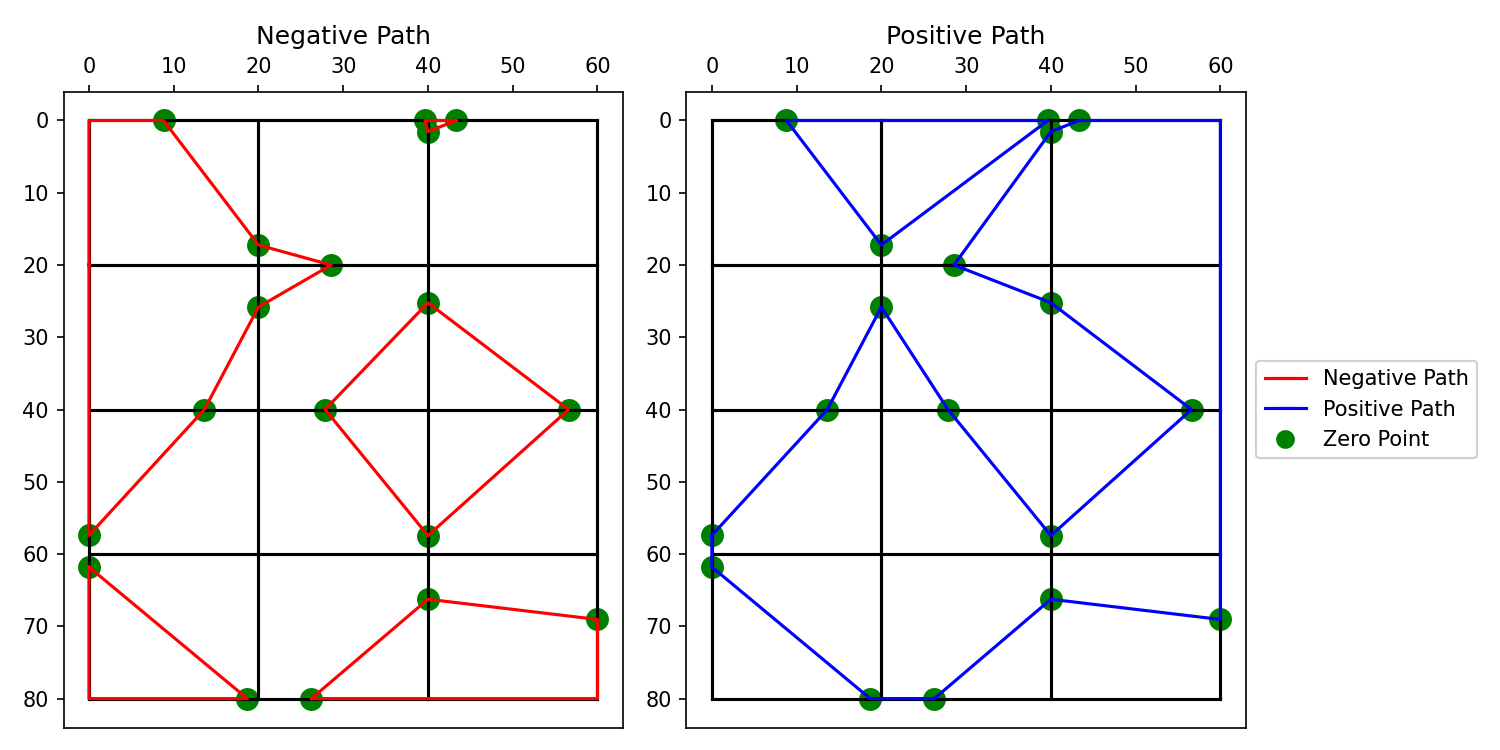
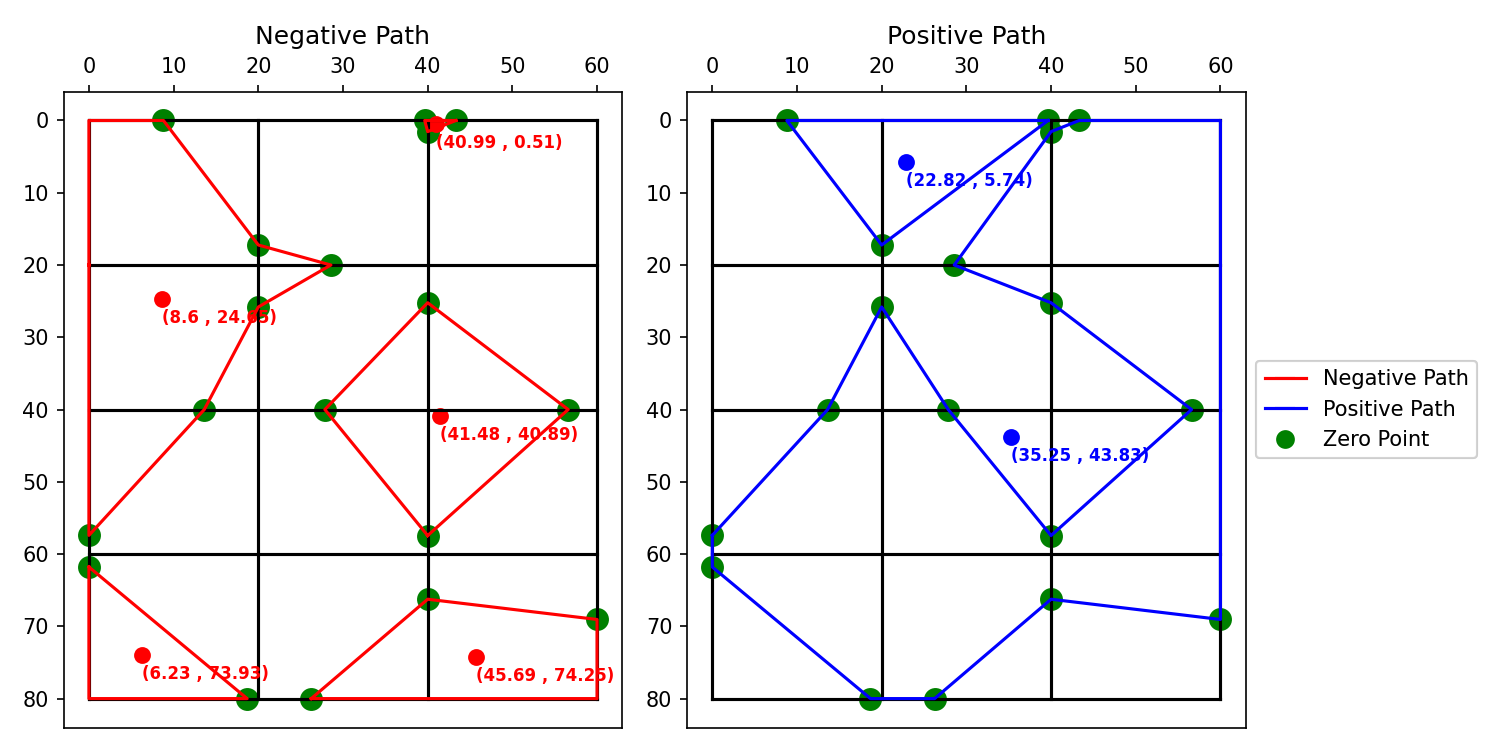
🤤

diff --git a/visualizeData.py b/visualizeData.py
@@ -11,7 +11,7 @@ def showExcavationAndFillingZone(
 
     fig, ax = plt.subplots()
 
-    # fig.set_size_inches(8, 8)
+    fig.set_size_inches(10, 6)
 
     # 画网格线
     gridNet.drawGridNetLines(gridNet.verticalPoints, gridNet.horizontalPoints, ax)
@@ -81,17 +81,17 @@ def showExcavationAndFillingZone(
 
     # 填充挖方区域和填方区域
 
-    for path in gridNet.gridNetNegativeZone:
+    for index, path in enumerate(gridNet.gridNetNegativeZone):
 
         xs, ys = zip(*[(p.x, p.y) for p in path])
 
-        ax.fill(xs, ys, color="red", alpha=0.5, label="negative zone")
+        ax.fill(xs, ys, color="red", alpha=0.5, label=f"negative zone {index+1}")
 
-    for path in gridNet.gridNetPositiveZone:
+    for index, path in enumerate(gridNet.gridNetPositiveZone):
 
         xs, ys = zip(*[(p.x, p.y) for p in path])
 
-        ax.fill(xs, ys, color="blue", alpha=0.5, label="positive zone")
+        ax.fill(xs, ys, color="blue", alpha=0.5, label=f"positive zone {index+1}")
 
     legend_elements = [
         Line2D(
@@ -167,9 +167,33 @@ def showNegativeAndPositivePath(gridNet: GridNet, savePath: str = None, dpi: int
         s=100,
     )
 
+    gridNetNegativeZone_c_v, gridNetPositiveZone_c_v = (
+        gridNet.calculateNegtiveZonesAndPositiveZones_geoCenterpoint_and_v()
+    )
+
     for path in gridNet.gridNetNegativeZone:
 
         # print(path)
+        geoCenterPoint = gridNetNegativeZone_c_v[path][0]
+        v = gridNetNegativeZone_c_v[path][1]
+
+        ax12[0].scatter(geoCenterPoint.x, geoCenterPoint.y, color="red", s=50)
+        # ax12[0].text(
+        #     geoCenterPoint.x,
+        #     geoCenterPoint.y + GridNet().edge_length / 3,
+        #     f"v={round(v,2)}",
+        #     color="red",
+        #     weight="bold",
+        #     size=8,
+        # )
+        ax12[0].text(
+            geoCenterPoint.x,
+            geoCenterPoint.y + GridNet().edge_length / 6,
+            f"({round(geoCenterPoint.x,2)} , {round(geoCenterPoint.y,2)})",
+            color="red",
+            weight="bold",
+            size=8,
+        )
 
         xs, ys = zip(*[(p.x, p.y) for p in path])
 
@@ -181,6 +205,26 @@ def showNegativeAndPositivePath(gridNet: GridNet, savePath: str = None, dpi: int
     for path in gridNet.gridNetPositiveZone:
 
         # print(path)
+        geoCenterPoint = gridNetPositiveZone_c_v[path][0]
+        v = gridNetPositiveZone_c_v[path][1]
+
+        ax12[1].scatter(geoCenterPoint.x, geoCenterPoint.y, color="blue", s=50)
+        # ax12[1].text(
+        #     geoCenterPoint.x,
+        #     geoCenterPoint.y + GridNet().edge_length / 3,
+        #     f"v={round(v,2)}",
+        #     color="blue",
+        #     weight="bold",
+        #     size=8,
+        # )
+        ax12[1].text(
+            geoCenterPoint.x,
+            geoCenterPoint.y + GridNet().edge_length / 6,
+            f"({round(geoCenterPoint.x,2)} , {round(geoCenterPoint.y,2)})",
+            color="blue",
+            weight="bold",
+            size=8,
+        )
 
         xs, ys = zip(*[(p.x, p.y) for p in path])
 

diff --git a/gridClass.py b/gridClass.py
@@ -1,12 +1,10 @@
 import numpy as np
-import matplotlib.pyplot as plt
 from rich import print
 from typing import Iterable, List, Union
 import math
 from shapely.geometry import Point, Polygon, MultiPolygon
-from shapely.ops import unary_union
-import matplotlib.gridspec as gridspec
 from dataProcess import lenth_net
+from scipy.spatial import ConvexHull
 
 
 def is_point_on_edge(point: tuple[float, float], polygon: Polygon):
@@ -388,11 +386,23 @@ class GridNet:
 
             average_value = sum(valuelist) / len(set_coords)  # 平均高程
 
+            points3d = [
+                (p[0], p[1], self.get_value_by_coordinate(p)) for p in set_coords
+            ]
+
             # print(valuelist)
 
             # print(set_coords)
 
-            total_area += poly.area * average_value
+            # try:
+            #     hull = ConvexHull(points3d)
+            #     v = hull.volume
+            # except:
+            #     v = poly.area * average_value
+
+            v = poly.area * average_value
+
+            total_area += v
 
             # test
             # print(valuelist)
@@ -456,6 +466,52 @@ class GridNet:
         self.excavationAll = round(excavationAll, 3)
 
         print(f"excavationAll: - {self.excavationAll}, fillingAll: + {self.fillingAll}")
+
+    def calculateNegtiveZonesAndPositiveZones_geoCenterpoint_and_v(
+        self,
+    ) -> tuple[
+        dict["GridPath", tuple[Point, float]], dict["GridPath", tuple[Point, float]]
+    ]:
+        """
+
+        gridNetNegativeZone_c_v = {} # key: GridPath, value: (geoCenterPoint, v)
+
+        gridNetPositiveZone_c_v = {} # key: GridPath, value: (geoCenterPoint, v)
+
+        return gridNetNegativeZone_c_v, gridNetPositiveZone_c_v
+
+        """
+        assert self.gridNetNegativeZone and self.gridNetPositiveZone, "empty zones"
+
+        gridNetNegativeZone_c_v = {}
+        gridNetPositiveZone_c_v = {}
+
+        allvNegative = 0
+        allvPositive = 0
+
+        for path in self.gridNetNegativeZone:
+            polygon = Polygon([(p.x, p.y) for p in path.edges])
+            geoCenterPoint = polygon.centroid
+            v = self.calculate_area(polygon)
+            allvNegative += v
+            gridNetNegativeZone_c_v[path] = (geoCenterPoint, v)
+
+        for path in self.gridNetPositiveZone:
+            polygon = Polygon([(p.x, p.y) for p in path.edges])
+            geoCenterPoint = polygon.centroid
+            v = self.calculate_area(polygon)
+            allvPositive += v
+            gridNetPositiveZone_c_v[path] = (geoCenterPoint, v)
+
+        assert len(self.gridNetNegativeZone) == len(
+            gridNetNegativeZone_c_v
+        ), "negative zones not calculated"
+
+        assert len(self.gridNetPositiveZone) == len(
+            gridNetPositiveZone_c_v
+        ), "positive zones not calculated"
+
+        return gridNetNegativeZone_c_v, gridNetPositiveZone_c_v
 
 
 class GridPoint:
